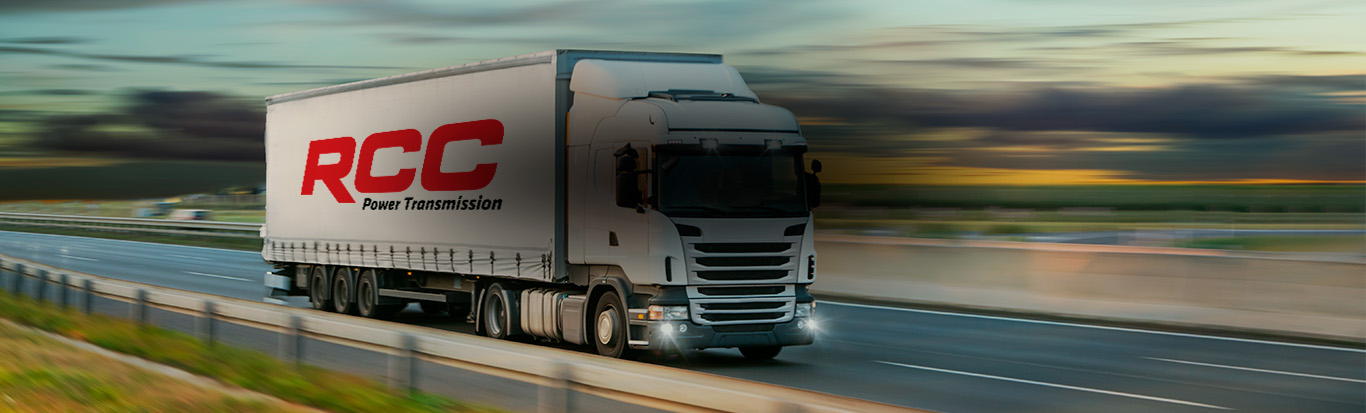
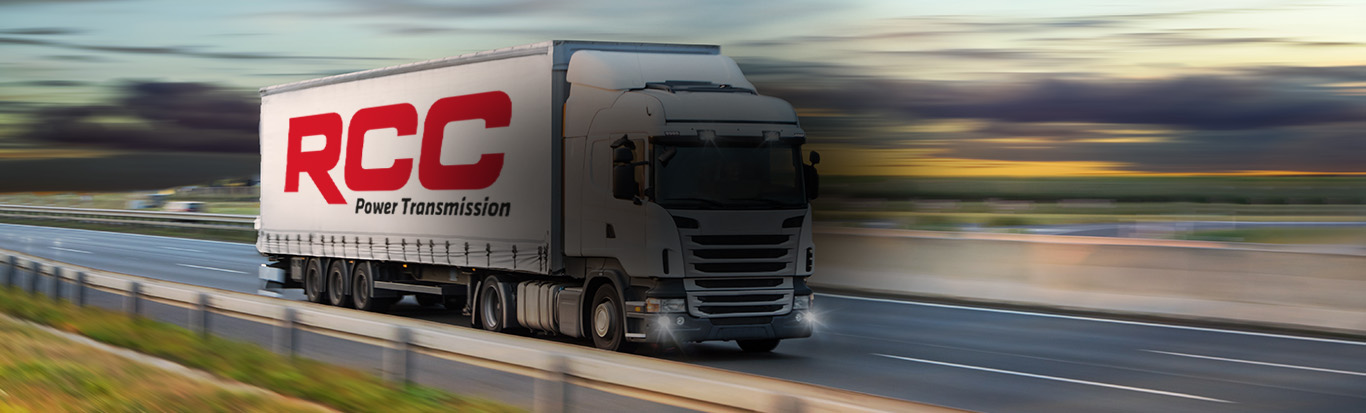
Criação do paralax e correção da aba "distribuidor"

diff --git a/index.html b/index.html
@@ -8,11 +8,12 @@
     <link rel="stylesheet" href="css/variaveis.css">
     <link rel="stylesheet" href="css/body.css">
     <link rel="stylesheet" href="css/cabecalho.css">
-    <link rel="stylesheet" href="css/apresentacao.css">
+    <link rel="stylesheet" href="css/paralax.css">
     <link rel="stylesheet" href="css/vantagens.css">
     <link rel="stylesheet" href="css/distribuidor.css">
     <link rel="stylesheet" href="css/localizacao.css">
     <link rel="stylesheet" href="css/rodape.css">
+    <script src = "js/paralax.js" defer></script>
 </head>
 <body>
     <header class = "cabecalho container">
@@ -36,8 +37,12 @@
     </header>
     <main>
         <section class = "apresentacao">
-            <img class = "apresentacao__logo" src = "Imagens/Main/Barra 1.jpg" alt = "Logo do Grupo Abrascort e uma pessoa em uma plantação.">
-            <img class = "apresentacao__caminhao" src = "Imagens/Main/Barra 2.jpg" alt = "Um caminhão da RCC">
+            <img class = "apresentacao__img" id = "fundo-logo" src = "Imagens/Main/Barra 1.jpg" alt = "Logo do Grupo Abrascort e uma pessoa em uma plantação.">
+            <img class = "apresentacao__img" id = "fundo-caminhao" src = "Imagens/Main/Banner 2 600px.jpeg" alt = "Um caminhão da RCC">
+            <div class = "apresentacao__bloco">
+                <h1 class = "apresentacao__titulo" id = "texto-paralax">NÓS FORNECEMOS PRODUTOS E SERVIÇOS QUE MANTÉM SEU EQUIPAMENTO FUNCIONANDO</h1>
+                <a href="#"><input class = "apresentacao__botao" id = "botao-paralax" type = "button" value = "CONHEÇA NOSSOS PRODUTOS"></a>
+            </div>
         </section>
         <section class = "vantagens container">
             <div class = "vantagens__bloco">
@@ -48,27 +53,26 @@
             </div>
             <div class = "vantagens__botao">
                 <p class = "vantagens__botao-texto">A MISSÃO DO GRUPO ABRASCORT É MANTER O NEGÓCIO DOS SEUS CLIENTES EM MOVIMENTO</p>
-                <a href="#"><input class = "botao" type = "button" value = "CONHEÇA NOSSOS PRODUTOS"></a>
+                <a href="#"><input class = "botao" type = "button" value = "SAIBA MAIS"></a>
             </div>
         </section>
         <section class = "distribuidor container">
             <h2 class = "distribuidor__texto">DISTRIBUIDOR AUTORIZADO</h2>
             <ul class = "distribuidor__imgs">
-                <li><img class = "distribuidor__logo" src = "Imagens/Main/Distribuidor/BONFIGLIOLI.jpeg" alt = "Logo da BONFIGLIOLI"></li>
-                <li><img class = "distribuidor__logo" src = "Imagens/Main/Distribuidor/D.I.D.jpeg" alt = "Logo da D.I.D"></li>
-                <li><img class = "distribuidor__logo" src = "Imagens/Main/Distribuidor/DANFOSS.jpeg" alt = "Logo da DANFOSS"></li>
-                <li><img class = "distribuidor__logo" src = "Imagens/Main/Distribuidor/DONALDSON.jpeg" alt = "Logo da DONALDSON"></li>
-                <li><img class = "distribuidor__logo" src = "Imagens/Main/Distribuidor/GATES.jpeg" alt = "Logo da GATES"></li>
-                <li><img class = "distribuidor__logo" src = "Imagens/Main/Distribuidor/KOYO.jpeg" alt = "Logo da KOYO"></li>
-                <li><img class = "distribuidor__logo" src = "Imagens/Main/Distribuidor/PARKER.jpeg" alt = "Logo da PARKER"></li>
-                <li><img class = "distribuidor__logo" src = "Imagens/Main/Distribuidor/RCC ps.jpeg" alt = "Logo da RXX prime steel"></li>
-                <li><img class = "distribuidor__logo" src = "Imagens/Main/Distribuidor/RCC pw.jpeg" alt = "Logo da RCC prime transmission"></li>
-                <li><img class = "distribuidor__logo" src = "Imagens/Main/Distribuidor/REXNORD.jpeg" alt = "Logo da REXNORD"></li>
-                <li><img class = "distribuidor__logo" src = "Imagens/Main/Distribuidor/REXROTH.jpeg" alt = "Logo da REXROTH"></li>
-                <li><img class = "distribuidor__logo" src = "Imagens/Main/Distribuidor/TRELLEBORG.jpeg" alt = "Logo da TRELLEBORG"></li>
-                <li><img class = "distribuidor__logo" src = "Imagens/Main/Distribuidor/MEGA WHIP.jpeg" alt = "Logo da MEGA WHIP"></li>
-                <li><img class = "distribuidor__logo" src = "Imagens/Main/Distribuidor/HYDRO LEDUC.jpeg" alt = "Logo da HYDRO LEDUC"></li>
-                <li><img class = "distribuidor__logo" src = "Imagens/Main/Distribuidor/EATON.jpeg" alt = "Logo da EATON"></li>
+                <li><img class = "distribuidor__logo" src = "Imagens/Main/Distribuidor/RCC.png" alt = "Logo da RCC"></li>
+                <li><img class = "distribuidor__logo" src = "Imagens/Main/Distribuidor/Primesteel.png" alt = "Logo da Primesteel"></li>
+                <li><img class = "distribuidor__logo" src = "Imagens/Main/Distribuidor/Gates.png" alt = "Logo da Gates"></li>
+                <li><img class = "distribuidor__logo" src = "Imagens/Main/Distribuidor/Trelleborg.png" alt = "Logo da Trelleborg"></li>
+                <li><img class = "distribuidor__logo" src = "Imagens/Main/Distribuidor/Donaldson.png" alt = "Logo da Donaldson"></li>
+                <li><img class = "distribuidor__logo" src = "Imagens/Main/Distribuidor/Rexnord.png" alt = "Logo da Rexnord"></li>
+                <li><img class = "distribuidor__logo" src = "Imagens/Main/Distribuidor/DID.png" alt = "Logo da DID"></li>
+                <li><img class = "distribuidor__logo" src = "Imagens/Main/Distribuidor/Rexroth.png" alt = "Logo da Rexroth"></li>
+                <li><img class = "distribuidor__logo" src = "Imagens/Main/Distribuidor/Danfoss.png" alt = "Logo da Danfoss"></li>
+                <li><img class = "distribuidor__logo" src = "Imagens/Main/Distribuidor/Bonfiglioli.png" alt = "Logo da Bonfiglioli"></li>
+                <li><img class = "distribuidor__logo" src = "Imagens/Main/Distribuidor/Paker.png" alt = "Logo da Parker"></li>
+                <li><img class = "distribuidor__logo" src = "Imagens/Main/Distribuidor/Koyo.png" alt = "Logo da Koyo"></li>
+                <li><img class = "distribuidor__logo" src = "Imagens/Main/Distribuidor/Hydro Leduc.png" alt = "Logo da Hydro Leduc"></li>
+                <li><img class = "distribuidor__logo" src = "Imagens/Main/Distribuidor/Mega Whip.png" alt = "Logo da Mega Whip"></li>
             </ul>
         </section>
         <section class = "localizacao container">
@@ -137,7 +141,7 @@
     <footer class = "rodape container">
         <div class = "rodape__whatsapp">
             <p class = "rodape__whatsapp-texto"> Para suporte e atendimento, clique aqui:</p>
-            <a href = "https://web.whatsapp.com/send?phone=554121699999" target = "_blank"><img class = "rodape__whatsapp-logo" src="Imagens/Rodape/whatsapp.jpeg" alt="Logo do whatsapp"></a>
+            <a href = "https://web.whatsapp.com/send?phone=554121699999" target = "_blank"><img class = "rodape__whatsapp-logo" src="Imagens/Rodape/whatsapp sf.png" alt="Logo do whatsapp"></a>
         </div>
         <div class = "rodape__localizacao">
             <address class = "rodape__localizacao-bloco">

diff --git a/css/paralax.css b/css/paralax.css
@@ -1,0 +1,54 @@
+.apresentacao {
+    position: relative;
+    width: 100%;
+    height: 100vh;
+    overflow: hidden;
+    display: flex;
+    justify-content: center;
+    align-items: center;
+}
+
+.apresentacao__img {
+    position: absolute;
+    top: 0;
+    left: 0;
+    width: 100%;
+    height: 50%;
+    object-fit: cover;
+    pointer-events: none;
+}
+
+
+#fundo-caminhao {
+    height: 100%;
+    z-index: -1;
+}
+
+.apresentacao__bloco {
+    position: relative;
+    top: 14rem;
+    text-align: center;
+    width: 600px;
+}
+
+.apresentacao__titulo {
+    position: relative;
+    color: #fff;
+    font-size: 30px;
+    z-index: 1;
+    margin-bottom: 1rem;
+}
+
+.apresentacao__botao {
+    background-color: #dd1818;
+    color: white;
+    border: none;
+    font-family: klavika;
+    font-size: 16px;
+    padding: 0.7rem 1rem;
+}
+
+.apresentacao__botao:hover {
+    background-color: #ca1717;
+    cursor: pointer;
+}

diff --git a/js/paralax.js b/js/paralax.js
@@ -1,0 +1,10 @@
+let fundo = document.getElementById("fundo-logo")
+let caminhao = document.getElementById("fundo-caminhao")
+let botao = document.getElementById("botao-paralax")
+let texto = document.getElementById("texto-paralax")
+
+window.addEventListener('scroll', function() {
+    var value = window.scrollY;
+
+    caminhao.style.top = value * 0.5 + 'px';
+})

diff --git a/css/rodape.css b/css/rodape.css
@@ -17,7 +17,7 @@
 }
 
 .rodape__whatsapp-logo {
-    width: 30px;
+    width: 35px;
 }
 
 .rodape__localizacao {
